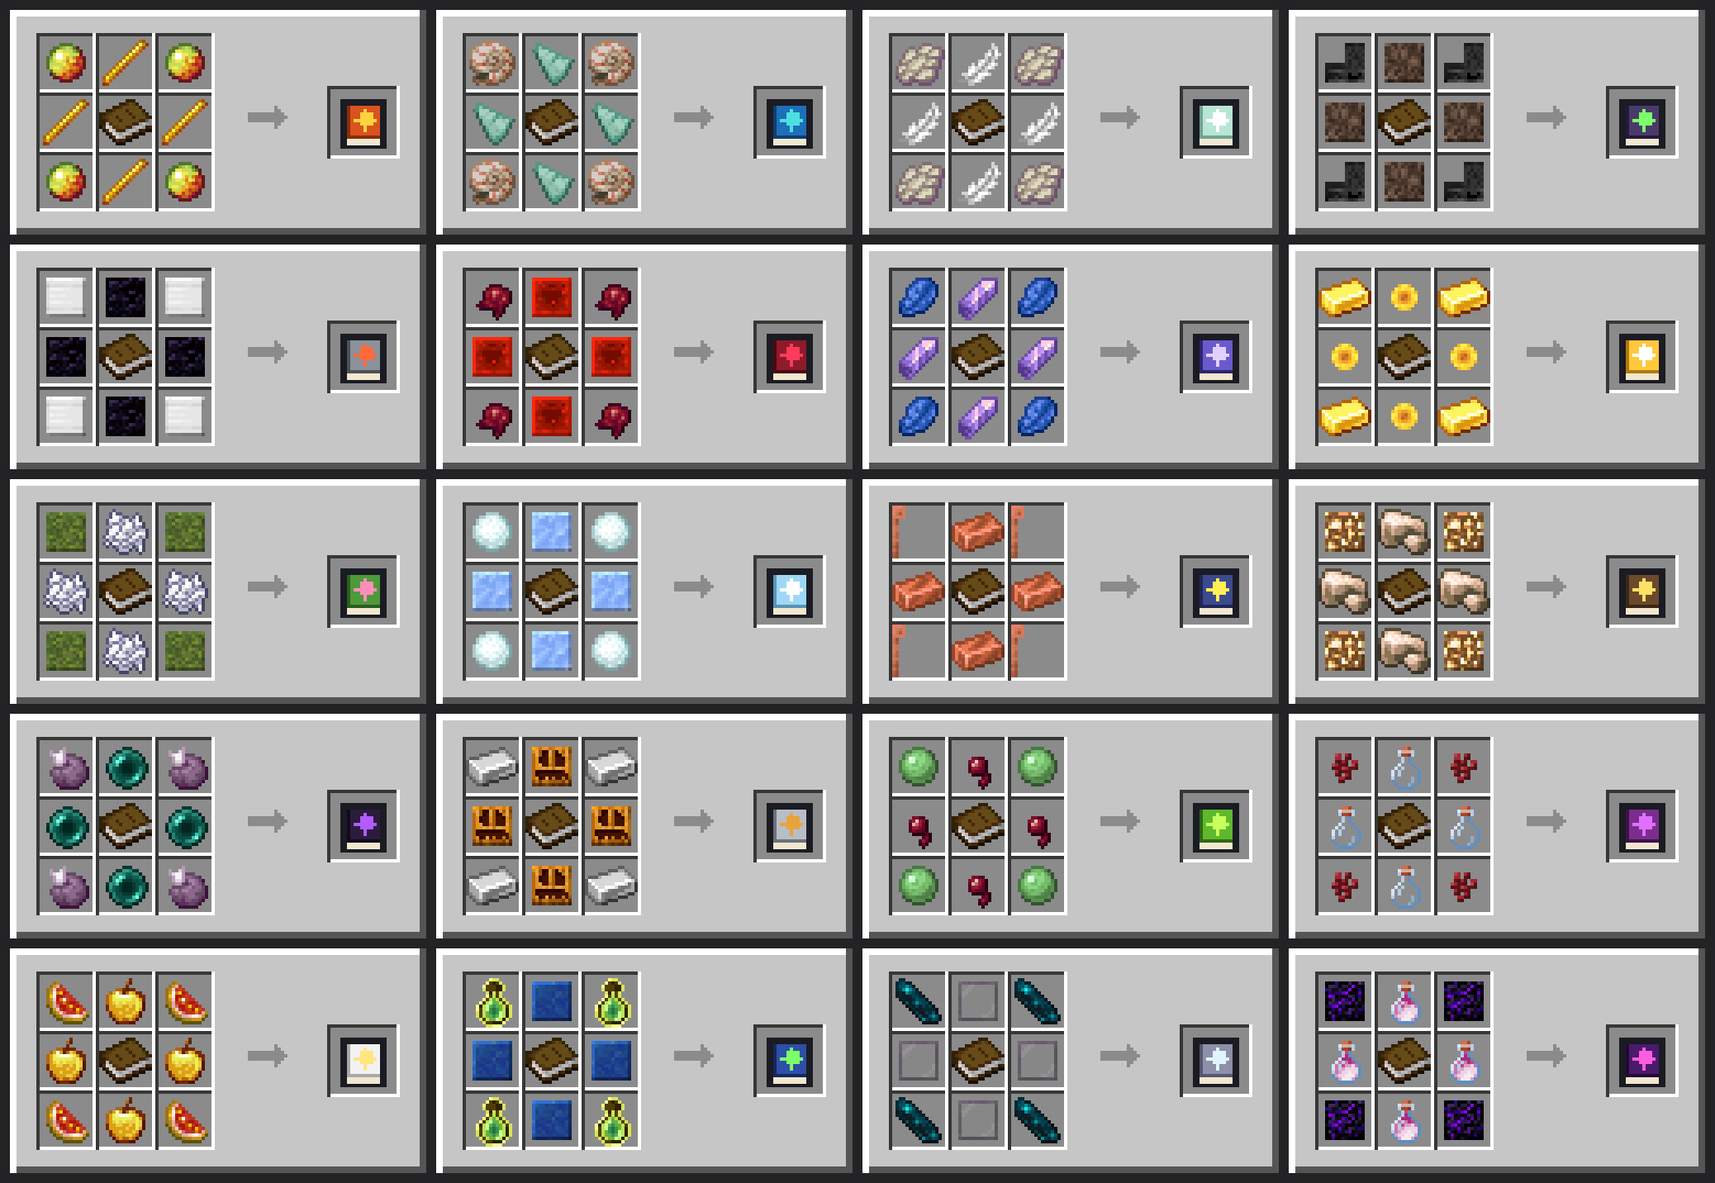
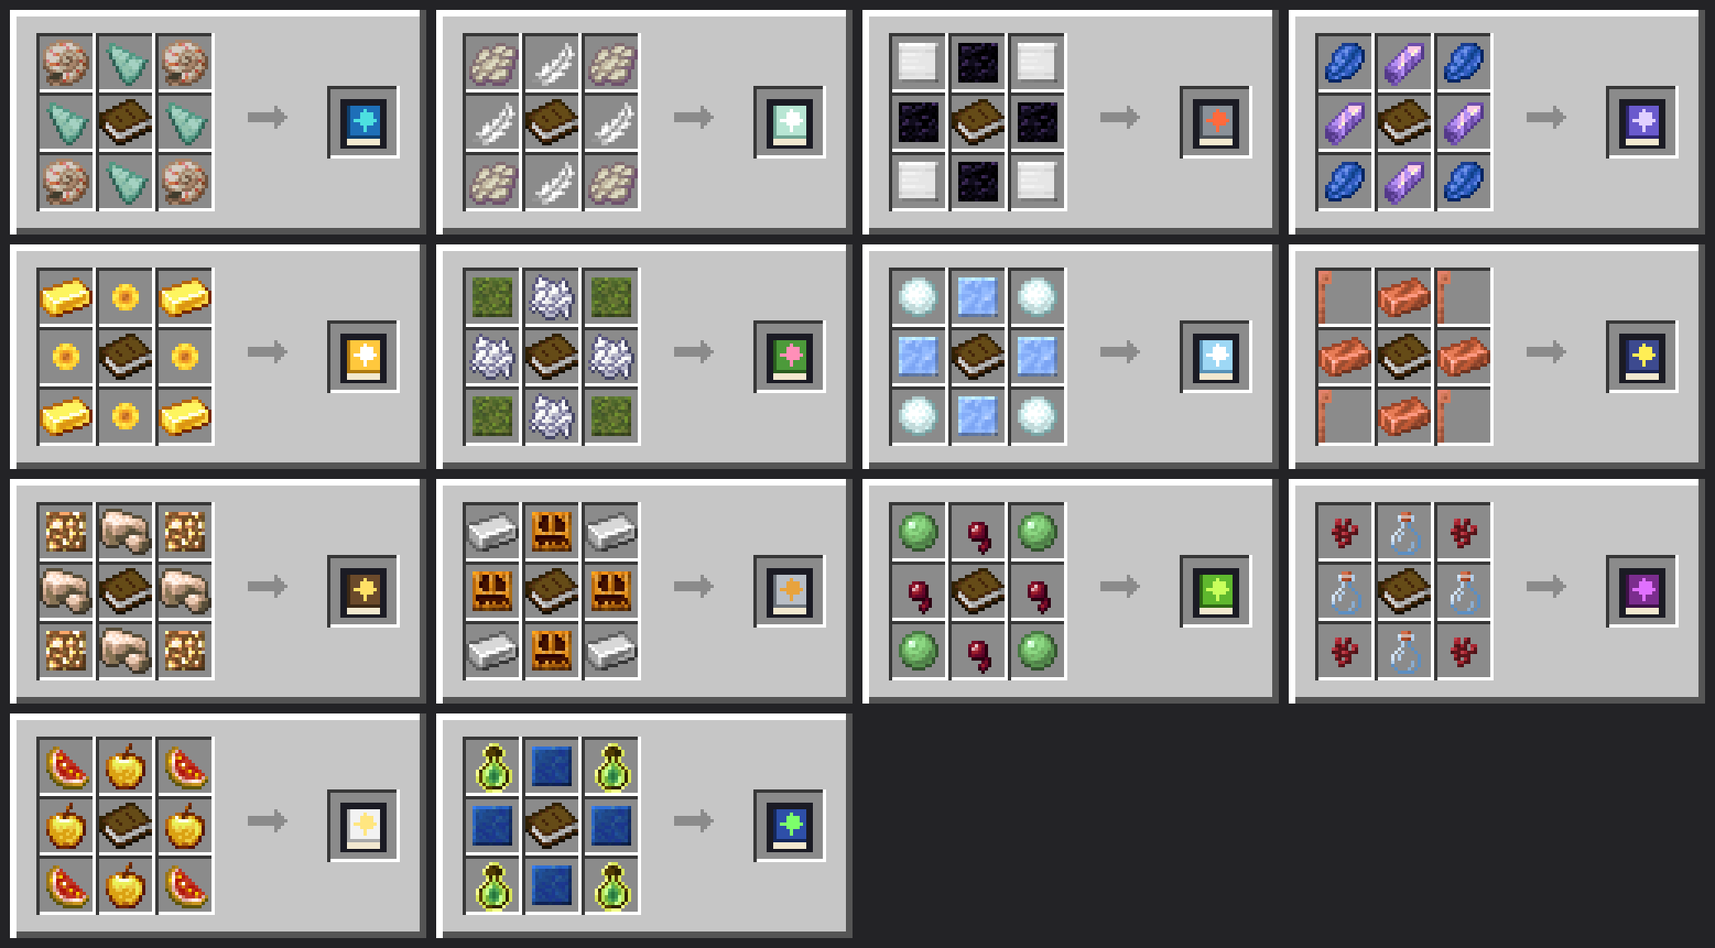
feat(grimoire): make 6 ancient tomes uncraftable loot-only and update craftable recipe sheet [skip ci]

diff --git a/scripts/generate_recipe_images.py b/scripts/generate_recipe_images.py
@@ -181,17 +181,17 @@ for rf in sorted(os.listdir(RECIPES_DIR)):
     out_file = os.path.join(OUT_DIR, f"{tome_name}_recipe.png")
     scaled.save(out_file)
 
-# Re-create sheet
+# Re-create sheet for 14 craftable tomes
 files = [
-    'tome_phoenix_recipe.png', 'tome_abyss_recipe.png', 'tome_zephyr_recipe.png', 'tome_lich_recipe.png',
-    'tome_titan_recipe.png', 'tome_vampire_recipe.png', 'tome_lunar_recipe.png', 'tome_solar_recipe.png',
-    'tome_druid_recipe.png', 'tome_frost_recipe.png', 'tome_storm_recipe.png', 'tome_delver_recipe.png',
-    'tome_void_recipe.png', 'tome_golem_recipe.png', 'tome_hydra_recipe.png', 'tome_alchemist_recipe.png',
-    'tome_seraph_recipe.png', 'tome_scholar_recipe.png', 'tome_mirror_recipe.png', 'tome_dragon_recipe.png'
+    'tome_abyss_recipe.png', 'tome_zephyr_recipe.png', 'tome_titan_recipe.png',
+    'tome_lunar_recipe.png', 'tome_solar_recipe.png', 'tome_druid_recipe.png',
+    'tome_frost_recipe.png', 'tome_storm_recipe.png', 'tome_delver_recipe.png',
+    'tome_golem_recipe.png', 'tome_hydra_recipe.png', 'tome_alchemist_recipe.png',
+    'tome_seraph_recipe.png', 'tome_scholar_recipe.png'
 ]
 
 cols = 4
-rows = 5
+rows = 4
 img_w, img_h = 504, 272
 pad = 12
 
@@ -210,4 +210,4 @@ for i, fn in enumerate(files):
 
 out_path = 'MCPEDL/new_addons/Grimoire-Relics-V2/assets/all_recipes_sheet.png'
 sheet.save(out_path)
-print(f'Montage regenerated with item textures: {out_path}')
+print(f'Montage regenerated for {len(files)} craftable recipes: {out_path}')

diff --git a/builds/Grimoire-Relics-V2/README.md b/builds/Grimoire-Relics-V2/README.md
@@ -1,115 +1,28 @@
-# Grimoire Relics V2 — Magical Offhand Grimoires for Minecraft Bedrock
+# Grimoire Relics V2 - Downloads and Releases
 
-[![Minecraft Bedrock](https://img.shields.io/badge/Minecraft%20Bedrock-1.21.0%2B-brightgreen?style=flat-square&logo=minecraft)](https://github.com/AllensCreations/MCPE-Curseforges)
-[![Achievement Friendly](https://img.shields.io/badge/Achievements-Friendly-brightgreen?style=flat-square)](https://github.com/AllensCreations/MCPE-Curseforges)
-[![Script API](https://img.shields.io/badge/Script%20API-%40minecraft%2Fserver%201.13.0%2B-blue?style=flat-square)](https://github.com/AllensCreations/MCPE-Curseforges)
-[![Format](https://img.shields.io/badge/Format-.MCADDON-orange?style=flat-square)](../README.md#available-source-add-ons)
-[![Release](https://img.shields.io/badge/Release-v1.0.0-blue?style=flat-square)](../README.md#available-source-add-ons)
-
-**By AllensCreations**
-
-**MAGICAL OFFHAND RELICS SYSTEM & PASSIVE AURA ENGINE**
-
-20 craftable ancient grimoires granting unique passive blessings, dynamic defensive reactive triggers, and orbiting particle auras—active strictly and only while equipped in your offhand slot.
+This folder contains compiled release packages for **Grimoire Relics V2** by AllensCreations.
 
 ---
 
-## Overview
+## Direct Download Links
 
-**Grimoire Relics V2** brings an RPG-style relic progression system to Minecraft Bedrock Edition without requiring experimental toggles or breaking achievement eligibility. Built on Bedrock Script API (`@minecraft/server` v1.13.0+), it monitors your offhand equipment in real-time.
-
-Holding a Grimoire in your offhand dynamically attunes your character:
-1. Displays an attunement actionbar title and lists relic perks.
-2. Applies continuous passive buffs and status effects.
-3. Generates a distinct 4-point rotating particle aura ring around the player.
-4. Activates reactive combat triggers on hurt (defensive) or hit (offensive).
-5. Automatically strips away active buffs and removes temporary constructs immediately upon un-equipping or switching offhand items.
-
----
-
-## The 20 Grimoire Relics
-
-| Relic Name | Identifier | Passive Abilities & Mechanics | Particle Aura | Crafting Key Ingredients |
+| File Name | Format | Size | Description | Download Link |
 | :--- | :--- | :--- | :--- | :--- |
-| **Infernal Phoenix** | `custom:tome_phoenix` | Permanent Fire Resistance. Attackers that melee hit you are set on fire for 5s; targets you melee hit burn for 5s. | Flame (`basic_flame_particle`) | Blaze Rods + Magma Cream + Book |
-| **Abyssal Tide** | `custom:tome_abyss` | Permanent Water Breathing. Night Vision while underwater. Dolphin's Grace while swimming. | Water Splash (`water_splash_particle`) | Prismarine Shards + Nautilus Shell + Book |
-| **Zephyr Wind** | `custom:tome_zephyr` | Speed II + Jump Boost I. Auto Slow Falling when plunging (downward velocity < -0.5). Full fall damage immunity. | White Smoke (`white_smoke_particle`) | Feathers + Phantom Membrane + Book |
-| **Necrotic Lich** | `custom:tome_lich` | Melee strikes inflict Wither II for 3s on victims. | Soul (`soul_particle`) | Soul Sand + Wither Skeleton Skull + Book |
-| **Mountain Titan** | `custom:tome_titan` | Permanent Resistance II and Slowness I. Complete knockback immunity (cancels knockback velocity on damage). | Smoke (`basic_smoke_particle`) | Obsidian + Iron Block + Book |
-| **Blood Vampire** | `custom:tome_vampire` | Life Leech: Every successful melee strike restores 1 full heart (2 HP). | Heart (`heart_particle`) | Redstone Block + Fermented Spider Eye + Book |
-| **Lunar Eclipse** | `custom:tome_lunar` | Nocturnal Blessing: Invisibility and Strength I during nighttime (13000–23000 ticks) in the Overworld. | End Rod (`endrod`) | Amethyst Shards + Lapis Lazuli + Book |
-| **Solar Dawn** | `custom:tome_solar` | Solar Nourishment: Saturation and Regeneration I under open daylight skies. | Totem (`totem_particle`) | Sunflowers + Gold Ingot + Book |
-| **Verdant Druid** | `custom:tome_druid` | Poison immunity. Naturally fertilizes crops and advances saplings within a 3-block radius. | Happy Villager (`villager_happy`) | Bone Meal + Moss Block + Book |
-| **Frost Weaver** | `custom:tome_frost` | Frost Walker II (freezes water underfoot into frosted ice, unless sneaking). Complete immunity to powder snow freezing. | Snowflake (`snowflake_particle`) | Packed Ice + Snowballs + Book |
-| **Stormcaller** | `custom:tome_storm` | Speed III outdoors during rain or thunderstorms. 15% chance to strike melee attackers with real lightning. | Electric Spark (`electric_spark_particle`) | Copper Ingots + Lightning Rod + Book |
-| **Deep Delver** | `custom:tome_delver` | Permanent Haste II. Automatically manifests an invisible light block at feet when below Y=55 in the dark. | Lava (`lava_particle`) | Raw Iron + Glowstone + Book |
-| **Void Phantom** | `custom:tome_void` | Emergency Void Rescue: Falling into the void in the Overworld (below Y=-60) teleports you to the surface; falling into the End void teleports you safely to the End spawn platform (100, 49, 0) with Slow Falling (5 min cooldown). | Nether Portal (`basic_portal_particle`) | Ender Pearls + Chorus Fruit + Book |
-| **Iron Golem** | `custom:tome_golem` | Fortified Armor: Grants 4 Absorption hearts every 30s. Melee strikes launch enemies upward into the air. | Crit (`critical_hit_emitter`) | Carved Pumpkin + Iron Ingot + Book |
-| **Venom Hydra** | `custom:tome_hydra` | Full immunity to Poison and Wither. Melee attacks inflict Poison II (5s). | Mob Spell (`mobspell_emitter`) | Spider Eye + Slimeball + Book |
-| **Cursed Alchemist** | `custom:tome_alchemist` | Potion Mastery: Permanently preserves and refreshes the duration of active beneficial potion effects. | Witch Spell (`witchspell_emitter`) | Glass Bottles + Nether Wart + Book |
-| **Radiant Seraph** | `custom:tome_seraph` | Permanent Regeneration II. Complete immunity to Blindness and Nausea. | High End Rod (`endrod`) | Golden Apple + Glistering Melon + Book |
-| **Arcane Scholar** | `custom:tome_scholar` | Arcane Intellect: Triples all experience gained from mob drops, mining, and orbs. | Enchanting Table (`enchanting_table_particle`) | Lapis Block + Bottle o' Enchanting + Book |
-| **Mirror Trickster** | `custom:tome_mirror` | Elusive Phase: 25% chance upon taking damage to negate all incoming damage and blink 3 blocks backward through smoke. | End Rod (`endrod`) | Tinted Glass + Echo Shard + Book |
-| **Cataclysm Dragon** | `custom:tome_dragon` | Strength II and Resistance I. Complete immunity to dragon breath and explosions (recovers damage as health). | Dragon Breath (`dragon_breath_trail`) | Dragon's Breath + Crying Obsidian + Book |
+| **`Grimoire Relics V2 by AllensCreations (V1.0.0).mcaddon`** | `.mcaddon` | ~30 KB | Complete bundle containing both Behavior Pack and Resource Pack. | [Download (.mcaddon)](https://github.com/AllensCreations/MCPE-Curseforges/raw/main/builds/Grimoire-Relics-V2/Grimoire%20Relics%20V2%20by%20AllensCreations%20%28V1.0.0%29.mcaddon) |
+| **`Grimoire Relics V2 BP by AllensCreations (V1.0.0).mcpack`** | `.mcpack` | ~22 KB | Behavior Pack: Custom entities, components, and gameplay mechanics. | [Download (.mcpack)](https://github.com/AllensCreations/MCPE-Curseforges/raw/main/builds/Grimoire-Relics-V2/Grimoire%20Relics%20V2%20BP%20by%20AllensCreations%20%28V1.0.0%29.mcpack) |
+| **`Grimoire Relics V2 RP by AllensCreations (V1.0.0).mcpack`** | `.mcpack` | ~6 KB | Resource Pack: Custom models, geometry, textures, and sounds. | [Download (.mcpack)](https://github.com/AllensCreations/MCPE-Curseforges/raw/main/builds/Grimoire-Relics-V2/Grimoire%20Relics%20V2%20RP%20by%20AllensCreations%20%28V1.0.0%29.mcpack) |
 
 ---
 
-## Crafting & Recipe Pattern
+## Installation Guide
 
-All 20 tomes are crafted at a standard Crafting Table using a shaped 3x3 pattern surrounding a central Book:
-
-<p align="center">
-  <img src="assets/all_recipes_sheet.png" alt="Grimoire Relics V2 Crafting Recipes" width="850">
-</p>
-
-```
-[ C ] [ E ] [ C ]
-[ E ] [ B ] [ E ]
-[ C ] [ E ] [ C ]
-```
-
-- **B**: Vanilla Book (`minecraft:book`)
-- **C**: Primary Elemental Catalyst (Corners)
-- **E**: Secondary Arcane Essence (Edges)
+For general import instructions, refer to the centralized [Download and Installation Guide](../README.md#download-and-installation-guide).
 
 ---
 
-## Durability & World Generation Loot Tables
-
-### Relic Durability & Breaking Mechanics
-- Each crafted or discovered Grimoire possesses **100 Max Durability** (`minecraft:durability`).
-- **Event-Only Wear**: Passive stat buffs (such as Water Breathing, Speed, or Haste) do **not** drain durability. Durability is consumed strictly upon active mechanical execution:
-  - *Combat triggers* (e.g. Phoenix burn on hit/hurt, Vampire life-steal, Iron Golem absorption & launch, Hydra poison, Lich wither): 1 durability per event.
-  - *Environmental abilities* (e.g. Druid crop boost, Frost Weaver water freeze, Stormcaller lightning strike, Mirror Trickster blink): 1 to 2 durability per event.
-  - *Emergency Lifesavers* (e.g. Void Phantom surface/End platform rescue): 10 durability.
-- **Shatter**: Once durability depletes completely to 0, the tome shatters (`random.break` audio with item break particles) and is removed from the offhand slot. Tomes are non-repairable, consumable ancient relics.
-
-### World Chest Distribution
-Select ancient tomes generate naturally inside exploration chests across the world, occasionally replacing rare loot like Enchanted Golden Apples:
-- **Ancient Cities**: High chance for **Void Phantom** (`tome_void`) and **Mirror Trickster** (`tome_mirror`).
-- **Bastion Remnants (Treasure)**: **Infernal Phoenix** (`tome_phoenix`) and **Necrotic Lich** (`tome_lich`).
-- **End Cities**: **Cataclysm Dragon** (`tome_dragon`).
-- **Stronghold Libraries**: **Arcane Scholar** (`tome_scholar`) and **Cursed Alchemist** (`tome_alchemist`).
-- **Shipwreck Treasuries**: **Abyssal Tide** (`tome_abyss`).
-- **Monster Rooms / Simple Dungeons**: **Blood Vampire** (`tome_vampire`) and **Deep Delver** (`tome_delver`).
-
----
-
-## Technical Specifications & Performance
-
-- **Zero Experimental Flags**: Works in standard vanilla worlds, dedicated servers, and Realms without enabling Beta APIs or experimental toggles.
-- **Strict Offhand Gating**: Un-equipping or hot-swapping a tome instantly clears persistent potion effects, removes temporary light blocks, and stops particle emission.
-- **Optimized Tick Execution**: Passive loop runs on a staggered 10-tick interval, particle auras on 8 ticks, and void protection on a lightweight 2-tick check.
-- **Dynamic Lore Injection**: Holding or storing tomes automatically populates full colored perk tooltips in item lore.
-
----
-
-## Guidelines and Attribution
-
-- **Creator**: AllensCreations
-- **Rights & Reservation**: All rights reserved for AllensCreations.
-- **Content Creators**: Content creators are permitted to feature this creation in videos and streams with credit to AllensCreations.
-- **Redistribution**: Do not re-upload this pack or provide direct monetized download bypasses. Link directly to the official repository page.
+## Source Files
+To inspect uncompressed JSON files, geometry, render controllers, and textures:
+- [View Source Files](../../MCPEDL/new_addons/Grimoire-Relics-V2/)
 
 ---
 

diff --git a/MCPEDL/new_addons/Grimoire-Relics-V2/README.md b/MCPEDL/new_addons/Grimoire-Relics-V2/README.md
@@ -29,34 +29,34 @@ Holding a Grimoire in your offhand dynamically attunes your character:
 
 ## The 20 Grimoire Relics
 
-| Relic Name | Identifier | Passive Abilities & Mechanics | Particle Aura | Crafting Key Ingredients |
+| Relic Name | Identifier | Passive Abilities & Mechanics | Particle Aura | Acquisition / Crafting |
 | :--- | :--- | :--- | :--- | :--- |
-| **Infernal Phoenix** | `custom:tome_phoenix` | Permanent Fire Resistance. Attackers that melee hit you are set on fire for 5s; targets you melee hit burn for 5s. | Flame (`basic_flame_particle`) | Blaze Rods + Magma Cream + Book |
-| **Abyssal Tide** | `custom:tome_abyss` | Permanent Water Breathing. Night Vision while underwater. Dolphin's Grace while swimming. | Water Splash (`water_splash_particle`) | Prismarine Shards + Nautilus Shell + Book |
-| **Zephyr Wind** | `custom:tome_zephyr` | Speed II + Jump Boost I. Auto Slow Falling when plunging (downward velocity < -0.5). Full fall damage immunity. | White Smoke (`white_smoke_particle`) | Feathers + Phantom Membrane + Book |
-| **Necrotic Lich** | `custom:tome_lich` | Melee strikes inflict Wither II for 3s on victims. | Soul (`soul_particle`) | Soul Sand + Wither Skeleton Skull + Book |
-| **Mountain Titan** | `custom:tome_titan` | Permanent Resistance II and Slowness I. Complete knockback immunity (cancels knockback velocity on damage). | Smoke (`basic_smoke_particle`) | Obsidian + Iron Block + Book |
-| **Blood Vampire** | `custom:tome_vampire` | Life Leech: Every successful melee strike restores 1 full heart (2 HP). | Heart (`heart_particle`) | Redstone Block + Fermented Spider Eye + Book |
-| **Lunar Eclipse** | `custom:tome_lunar` | Nocturnal Blessing: Invisibility and Strength I during nighttime (13000–23000 ticks) in the Overworld. | End Rod (`endrod`) | Amethyst Shards + Lapis Lazuli + Book |
-| **Solar Dawn** | `custom:tome_solar` | Solar Nourishment: Saturation and Regeneration I under open daylight skies. | Totem (`totem_particle`) | Sunflowers + Gold Ingot + Book |
-| **Verdant Druid** | `custom:tome_druid` | Poison immunity. Naturally fertilizes crops and advances saplings within a 3-block radius. | Happy Villager (`villager_happy`) | Bone Meal + Moss Block + Book |
-| **Frost Weaver** | `custom:tome_frost` | Frost Walker II (freezes water underfoot into frosted ice, unless sneaking). Complete immunity to powder snow freezing. | Snowflake (`snowflake_particle`) | Packed Ice + Snowballs + Book |
-| **Stormcaller** | `custom:tome_storm` | Speed III outdoors during rain or thunderstorms. 15% chance to strike melee attackers with real lightning. | Electric Spark (`electric_spark_particle`) | Copper Ingots + Lightning Rod + Book |
-| **Deep Delver** | `custom:tome_delver` | Permanent Haste II. Automatically manifests an invisible light block at feet when below Y=55 in the dark. | Lava (`lava_particle`) | Raw Iron + Glowstone + Book |
-| **Void Phantom** | `custom:tome_void` | Emergency Void Rescue: Falling into the void in the Overworld (below Y=-60) teleports you to the surface; falling into the End void teleports you safely to the End spawn platform (100, 49, 0) with Slow Falling (5 min cooldown). | Nether Portal (`basic_portal_particle`) | Ender Pearls + Chorus Fruit + Book |
-| **Iron Golem** | `custom:tome_golem` | Fortified Armor: Grants 4 Absorption hearts every 30s. Melee strikes launch enemies upward into the air. | Crit (`critical_hit_emitter`) | Carved Pumpkin + Iron Ingot + Book |
-| **Venom Hydra** | `custom:tome_hydra` | Full immunity to Poison and Wither. Melee attacks inflict Poison II (5s). | Mob Spell (`mobspell_emitter`) | Spider Eye + Slimeball + Book |
-| **Cursed Alchemist** | `custom:tome_alchemist` | Potion Mastery: Permanently preserves and refreshes the duration of active beneficial potion effects. | Witch Spell (`witchspell_emitter`) | Glass Bottles + Nether Wart + Book |
-| **Radiant Seraph** | `custom:tome_seraph` | Permanent Regeneration II. Complete immunity to Blindness and Nausea. | High End Rod (`endrod`) | Golden Apple + Glistering Melon + Book |
-| **Arcane Scholar** | `custom:tome_scholar` | Arcane Intellect: Triples all experience gained from mob drops, mining, and orbs. | Enchanting Table (`enchanting_table_particle`) | Lapis Block + Bottle o' Enchanting + Book |
-| **Mirror Trickster** | `custom:tome_mirror` | Elusive Phase: 25% chance upon taking damage to negate all incoming damage and blink 3 blocks backward through smoke. | End Rod (`endrod`) | Tinted Glass + Echo Shard + Book |
-| **Cataclysm Dragon** | `custom:tome_dragon` | Strength II and Resistance I. Complete immunity to dragon breath and explosions (recovers damage as health). | Dragon Breath (`dragon_breath_trail`) | Dragon's Breath + Crying Obsidian + Book |
+| **Infernal Phoenix** | `custom:tome_phoenix` | Permanent Fire Resistance. Attackers that melee hit you are set on fire for 5s; targets you melee hit burn for 5s. | Flame (`basic_flame_particle`) | **Ancient Relic (Loot Only)**: Bastion Treasure |
+| **Abyssal Tide** | `custom:tome_abyss` | Permanent Water Breathing. Night Vision while underwater. Dolphin's Grace while swimming. | Water Splash (`water_splash_particle`) | Craftable: Prismarine Shards + Nautilus Shell + Book |
+| **Zephyr Wind** | `custom:tome_zephyr` | Speed II + Jump Boost I. Auto Slow Falling when plunging (downward velocity < -0.5). Full fall damage immunity. | White Smoke (`white_smoke_particle`) | Craftable: Feathers + Phantom Membrane + Book |
+| **Necrotic Lich** | `custom:tome_lich` | Melee strikes inflict Wither II for 3s on victims. | Soul (`soul_particle`) | **Ancient Relic (Loot Only)**: Bastion Treasure |
+| **Mountain Titan** | `custom:tome_titan` | Permanent Resistance II and Slowness I. Complete knockback immunity (cancels knockback velocity on damage). | Smoke (`basic_smoke_particle`) | Craftable: Obsidian + Iron Block + Book |
+| **Blood Vampire** | `custom:tome_vampire` | Life Leech: Every successful melee strike restores 1 full heart (2 HP). | Heart (`heart_particle`) | **Ancient Relic (Loot Only)**: Dungeon Monster Rooms |
+| **Lunar Eclipse** | `custom:tome_lunar` | Nocturnal Blessing: Invisibility and Strength I during nighttime (13000–23000 ticks) in the Overworld. | End Rod (`endrod`) | Craftable: Amethyst Shards + Lapis Lazuli + Book |
+| **Solar Dawn** | `custom:tome_solar` | Solar Nourishment: Saturation and Regeneration I under open daylight skies. | Totem (`totem_particle`) | Craftable: Sunflowers + Gold Ingot + Book |
+| **Verdant Druid** | `custom:tome_druid` | Poison immunity. Naturally fertilizes crops and advances saplings within a 3-block radius. | Happy Villager (`villager_happy`) | Craftable: Bone Meal + Moss Block + Book |
+| **Frost Weaver** | `custom:tome_frost` | Frost Walker II (freezes water underfoot into frosted ice, unless sneaking). Complete immunity to powder snow freezing. | Snowflake (`snowflake_particle`) | Craftable: Packed Ice + Snowballs + Book |
+| **Stormcaller** | `custom:tome_storm` | Speed III outdoors during rain or thunderstorms. 15% chance to strike melee attackers with real lightning. | Electric Spark (`electric_spark_particle`) | Craftable: Copper Ingots + Lightning Rod + Book |
+| **Deep Delver** | `custom:tome_delver` | Permanent Haste II. Automatically manifests an invisible light block at feet when below Y=55 in the dark. | Lava (`lava_particle`) | Craftable: Raw Iron + Glowstone + Book |
+| **Void Phantom** | `custom:tome_void` | Emergency Void Rescue: Falling into the void in the Overworld (below Y=-60) teleports you to the surface; falling into the End void teleports you safely to the End spawn platform (100, 49, 0) with Slow Falling (5 min cooldown). | Nether Portal (`basic_portal_particle`) | **Ancient Relic (Loot Only)**: Ancient Cities |
+| **Iron Golem** | `custom:tome_golem` | Fortified Armor: Grants 4 Absorption hearts every 30s. Melee strikes launch enemies upward into the air. | Crit (`critical_hit_emitter`) | Craftable: Carved Pumpkin + Iron Ingot + Book |
+| **Venom Hydra** | `custom:tome_hydra` | Full immunity to Poison and Wither. Melee attacks inflict Poison II (5s). | Mob Spell (`mobspell_emitter`) | Craftable: Spider Eye + Slimeball + Book |
+| **Cursed Alchemist** | `custom:tome_alchemist` | Potion Mastery: Permanently preserves and refreshes the duration of active beneficial potion effects. | Witch Spell (`witchspell_emitter`) | Craftable: Glass Bottles + Nether Wart + Book |
+| **Radiant Seraph** | `custom:tome_seraph` | Permanent Regeneration II. Complete immunity to Blindness and Nausea. | High End Rod (`endrod`) | Craftable: Golden Apple + Glistering Melon + Book |
+| **Arcane Scholar** | `custom:tome_scholar` | Arcane Intellect: Triples all experience gained from mob drops, mining, and orbs. | Enchanting Table (`enchanting_table_particle`) | Craftable: Lapis Block + Bottle o' Enchanting + Book |
+| **Mirror Trickster** | `custom:tome_mirror` | Elusive Phase: 25% chance upon taking damage to negate all incoming damage and blink 3 blocks backward through smoke. | End Rod (`endrod`) | **Ancient Relic (Loot Only)**: Ancient Cities |
+| **Cataclysm Dragon** | `custom:tome_dragon` | Strength II and Resistance I. Complete immunity to dragon breath and explosions (recovers damage as health). | Dragon Breath (`dragon_breath_trail`) | **Ancient Relic (Loot Only)**: End Cities |
 
 ---
 
 ## Crafting & Recipe Pattern
 
-All 20 tomes are crafted at a standard Crafting Table using a shaped 3x3 pattern surrounding a central Book:
+There are **14 craftable tomes** crafted at a standard Crafting Table using a shaped 3x3 pattern surrounding a central Book. The **6 Ancient tomes** (Void Phantom, Cataclysm Dragon, Necrotic Lich, Mirror Trickster, Blood Vampire, and Infernal Phoenix) cannot be crafted and must be uncovered by exploring rare world structures:
 
 <p align="center">
   <img src="assets/all_recipes_sheet.png" alt="Grimoire Relics V2 Crafting Recipes" width="850">
